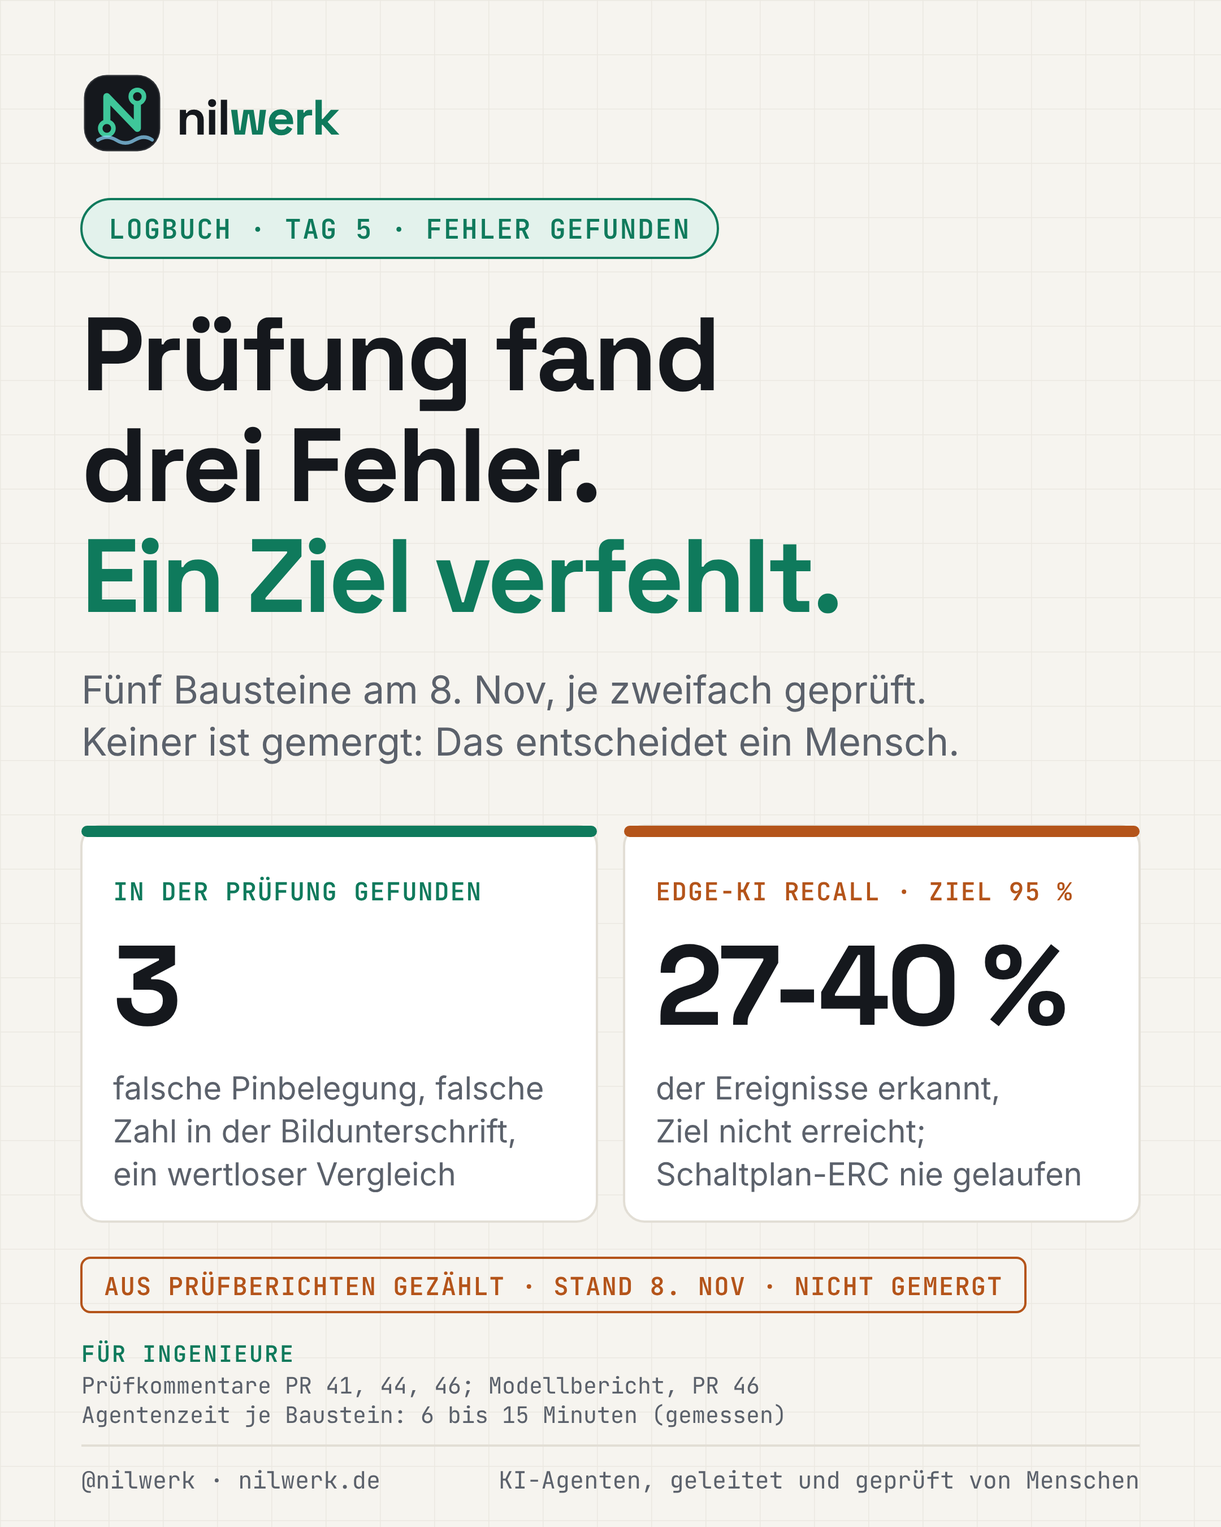
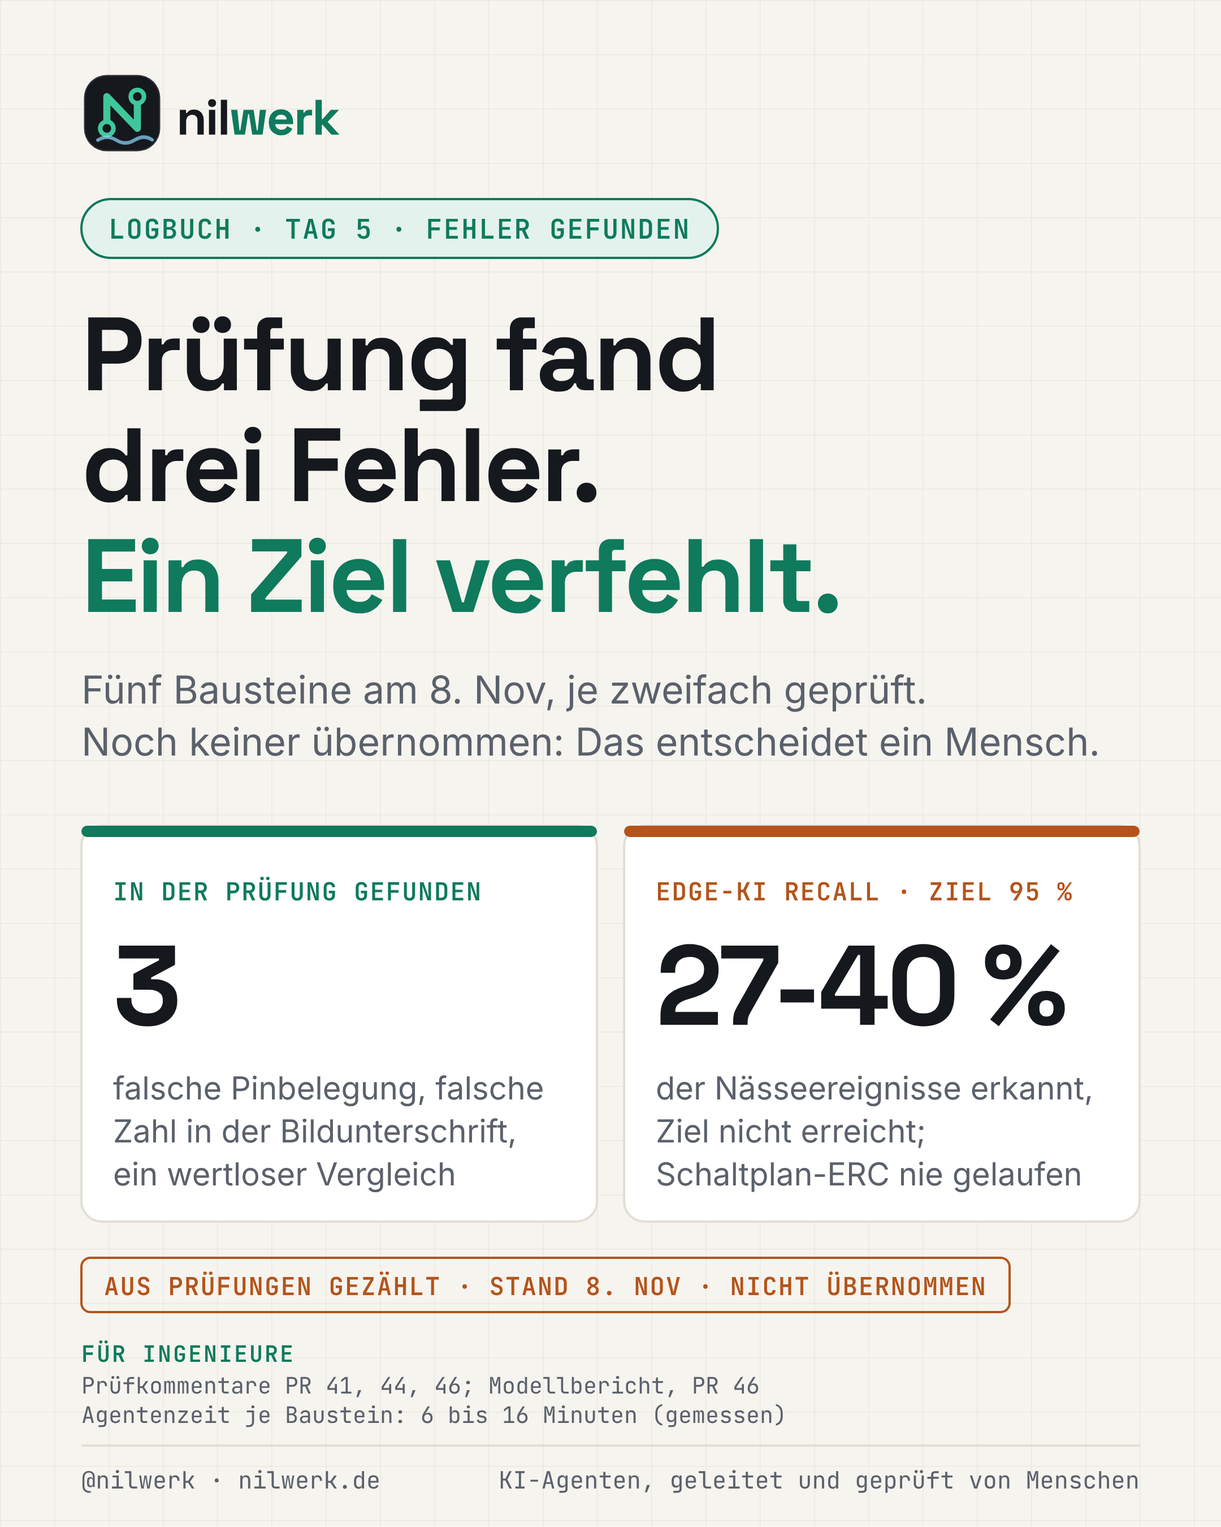
PR-2026-11-08: Fix round for Theo's review of PR #48 (C1-C6): catch 3 wording, minutes 6 to 16, 0.9 mm, DE terms and grammar, images regenerated
Claude-Session: https://claude.ai/code/session_01W3bSqCWXxRrT3y6SaaV3oX

diff --git a/showcase/content/build_episodes.py b/showcase/content/build_episodes.py
@@ -59,13 +59,13 @@ EPISODES = {
                    TILE_A_LABEL="CAUGHT BY REVIEW", TILE_A_VALUE="3", TILE_A_SUB1="wrong pin map, wrong caption", TILE_A_SUB2="number, a baseline that", TILE_A_SUB3="proved nothing",
                    TONE_A_TOKEN="accent", TILE_B_LABEL="EDGE-AI RECALL · TARGET 95 %", TILE_B_VALUE="27-40 %", TILE_B_SUB1="of wetting events found,", TILE_B_SUB2="target not met;", TILE_B_SUB3="circuit ERC never run",
                    TONE_B_TOKEN="warn", STATUS="COUNTED FROM REVIEWS · AS OF 8 NOV · NOT MERGED",
-                   SRC1="Review comments on PRs 41, 44, 46; model report, PR 46", SRC2="Agent time per build: 6 to 15 minutes (measured)"),
+                   SRC1="Review comments on PRs 41, 44, 46; model report, PR 46", SRC2="Agent time per build: 6 to 16 minutes (measured)"),
         "de": dict(KICKER="LOGBUCH · TAG 5 · FEHLER GEFUNDEN", H1="Prüfung fand", H2="drei Fehler.", H3="Ein Ziel verfehlt.",
-                   INTRO1="Fünf Bausteine am 8. Nov, je zweifach geprüft.", INTRO2="Keiner ist gemergt: Das entscheidet ein Mensch.",
+                   INTRO1="Fünf Bausteine am 8. Nov, je zweifach geprüft.", INTRO2="Noch keiner übernommen: Das entscheidet ein Mensch.",
                    TILE_A_LABEL="IN DER PRÜFUNG GEFUNDEN", TILE_A_VALUE="3", TILE_A_SUB1="falsche Pinbelegung, falsche", TILE_A_SUB2="Zahl in der Bildunterschrift,", TILE_A_SUB3="ein wertloser Vergleich",
-                   TONE_A_TOKEN="accent", TILE_B_LABEL="EDGE-KI RECALL · ZIEL 95 %", TILE_B_VALUE="27-40 %", TILE_B_SUB1="der Ereignisse erkannt,", TILE_B_SUB2="Ziel nicht erreicht;", TILE_B_SUB3="Schaltplan-ERC nie gelaufen",
-                   TONE_B_TOKEN="warn", STATUS="AUS PRÜFBERICHTEN GEZÄHLT · STAND 8. NOV · NICHT GEMERGT",
-                   SRC1="Prüfkommentare PR 41, 44, 46; Modellbericht, PR 46", SRC2="Agentenzeit je Baustein: 6 bis 15 Minuten (gemessen)")}),
+                   TONE_A_TOKEN="accent", TILE_B_LABEL="EDGE-KI RECALL · ZIEL 95 %", TILE_B_VALUE="27-40 %", TILE_B_SUB1="der Nässeereignisse erkannt,", TILE_B_SUB2="Ziel nicht erreicht;", TILE_B_SUB3="Schaltplan-ERC nie gelaufen",
+                   TONE_B_TOKEN="warn", STATUS="AUS PRÜFUNGEN GEZÄHLT · STAND 8. NOV · NICHT ÜBERNOMMEN",
+                   SRC1="Prüfkommentare PR 41, 44, 46; Modellbericht, PR 46", SRC2="Agentenzeit je Baustein: 6 bis 16 Minuten (gemessen)")}),
 }
 SIZES = {"portrait-1080x1350": "post-portrait-1080x1350", "linkedin-1200x627": "post-linkedin-1200x627"}
 

diff --git a/showcase/content/2026-11-13/posts.md b/showcase/content/2026-11-13/posts.md
@@ -1,20 +1,20 @@
 # Logbook Day 5 (Fri 13 Nov): we caught a mistake. Draft, nothing published or scheduled.
 
-Facts are as of Sun 8 Nov 2026; the five pull requests (#41, #42, #44, #45, #46) were open and not merged then. **On the day of posting: recheck merge status and wording ("waiting for a human" may be "merged").** Images: `images/day5-caught-mistakes-{en,de}-{portrait-1080x1350,linkedin-1200x627}.png` (light theme). Alt text EN: "Two tiles: 3 mistakes caught by review before merge; first edge-AI model finds 27 to 40 percent of wetting events against a 95 percent target. Status: counted from review comments, as of 8 November." Claims: `claim-check.md`.
+Facts are as of Sun 8 Nov 2026; the five pull requests (#41, #42, #44, #45, #46) were open and not merged then. **On the day of posting: recheck merge status and wording ("waiting for a human" may be "merged").** Images: `images/day5-caught-mistakes-{en,de}-{portrait-1080x1350,linkedin-1200x627}.png` (light theme). Alt text EN: "Two tiles: 3 mistakes caught by review before merge; first edge-AI model finds 27 to 40 percent (validation and test) of wetting events against a 95 percent target. Status: counted from review comments, as of 8 November." Claims: `claim-check.md`.
 
-**German check needed:** the DE texts below and the DE images must be checked by Theo or Nora before Arsany sees them. Not checked yet.
+**German check:** Theo's review conditions C4-C5 (terms, grammar, tone) are applied to the DE texts and DE images; Theo offered to re-check the DE text on request.
 
 ## LinkedIn (EN)
 
 Nilwerk Logbook, day 5. Review found three wrong things, and two results we are not proud of.
 
-On Sunday 8 November five AI agents each built one piece of our plant sensor: the circuit schematic, the app's sign-in screens, the cloud interface for sensor readings, the first on-device AI model and the battery bay of the enclosure. Each took between 6 and 15 minutes of agent time. Then a second AI agent reviewed each piece and a third tested it. They found:
+On Sunday 8 November five AI agents each built one piece of our plant sensor: the circuit schematic, the app's sign-in screens, the cloud interface for sensor readings, the first on-device AI model and the battery bay of the enclosure. Each took between 6 and 16 minutes of agent time. Then a second AI agent reviewed each piece and a third tested it. They found:
 
 1. The temperature and humidity sensor was wired in the schematic with pins that did not match its datasheet. Fixed before any circuit board layout.
 2. A caption said the battery bay grows "from 6.3 to 7.4 mm". The real change is 7.2 to 7.4 mm, just 0.2 mm.
-3. A report said our AI model "beats the simple rule". The rule had been set so strictly that it found nothing, so the comparison proved nothing. Reworded.
+3. A report compared our AI model with a simple rule that scored 0 %. That rule had been set so strictly it fired on almost nothing, so the comparison proved nothing. The report now shows the whole curve (the rule finds 80 % but at 25 false alerts per week).
 
-The honest part: the first AI model finds 27 to 40 percent of the wetting events in real data. Our target is 95 percent. It does not meet it. And the electrical rules check of the schematic has never run yet, because our automated pipeline broke before it started.
+The honest part: the first AI model finds 27 percent (validation data) and 40 percent (test data) of the wetting events, meaning watering or rain, in real data. Our target is 95 percent. It does not meet it. And the electrical rules check of the schematic has never run yet, because our automated pipeline broke before it started.
 
 None of the five is merged: a human decides that. That is the point of reviewing.
 
@@ -24,35 +24,35 @@ AI agents, led and reviewed by humans. nilwerk.de · @nilwerk
 
 #BuildInPublic #IoT #Hardware #EdgeAI #Engineering
 
-## LinkedIn (DE), to be checked by Theo/Nora, not yet checked
+## LinkedIn (DE)
 
 Nilwerk Logbuch, Tag 5. Die Prüfung hat drei Fehler gefunden, und wir haben zwei Ergebnisse, auf die wir nicht stolz sind.
 
-Am Sonntag, 8. November, haben fünf KI-Agenten je einen Baustein unseres Pflanzensensors gebaut: den Schaltplan, die Anmeldung in der App, die Cloud-Schnittstelle für Messwerte, das erste KI-Modell für das Gerät und die Akku-Aussparung des Gehäuses. Jeder brauchte zwischen 6 und 15 Minuten Agentenzeit. Danach hat ein zweiter KI-Agent jeden Baustein geprüft und ein dritter getestet. Gefunden wurde:
+Am Sonntag, 8. November, haben fünf KI-Agenten je einen Baustein unseres Pflanzensensors gebaut: den Schaltplan, die Anmeldung in der App, die Cloud-Schnittstelle für Messwerte, das erste KI-Modell für das Gerät und die Akku-Aussparung des Gehäuses. Jeder brauchte zwischen 6 und 16 Minuten Agentenzeit. Danach hat ein zweiter KI-Agent jeden Baustein geprüft und ein dritter getestet. Gefunden wurden:
 
 1. Der Temperatur- und Feuchtesensor war im Schaltplan mit Anschlüssen verdrahtet, die nicht zum Datenblatt passten. Behoben, bevor ein Platinenlayout entstand.
-2. Eine Bildunterschrift sagte, die Akku-Aussparung wachse „von 6,3 auf 7,4 mm“. Tatsächlich sind es 7,2 auf 7,4 mm, also nur 0,2 mm.
-3. Ein Bericht sagte, unser KI-Modell „schlägt die einfache Regel“. Die Regel war so streng eingestellt, dass sie nichts fand; der Vergleich bewies also nichts. Umformuliert.
+2. Eine Bildunterschrift sagte, die Akku-Aussparung wachse „von 6,3 auf 7,4 mm“. Tatsächlich sind es von 7,2 auf 7,4 mm, also nur 0,2 mm.
+3. Ein Bericht verglich unser KI-Modell mit einer einfachen Regel, die 0 % erreichte. Diese Regel war so streng eingestellt, dass sie fast nie auslöste; der Vergleich bewies also nichts. Der Bericht zeigt jetzt die ganze Kurve (die Regel findet 80 %, aber mit 25 Fehlalarmen pro Woche).
 
-Der ehrliche Teil: Das erste KI-Modell erkennt 27 bis 40 Prozent der Bewässerungsereignisse in echten Daten. Unser Ziel sind 95 Prozent. Es ist nicht erreicht. Und die elektrische Regelprüfung (ERC) des Schaltplans ist noch nie gelaufen, weil unsere automatische Pipeline vorher ausgefallen ist.
+Der ehrliche Teil: Das erste KI-Modell erkennt 27 Prozent (Validierung) und 40 Prozent (Test) der Bewässerungs- oder Regenereignisse in echten Daten. Das Ziel von 95 Prozent ist nicht erreicht. Und die elektrische Regelprüfung (ERC) des Schaltplans ist noch nie gelaufen, weil unsere automatische Pipeline vorher ausgefallen ist.
 
-Keiner der fünf Bausteine ist gemergt: Das entscheidet ein Mensch. Dafür ist die Prüfung da.
+Keiner der fünf Bausteine ist übernommen (gemergt): Das entscheidet ein Mensch. Dafür ist die Prüfung da.
 
-Für Ingenieure: Modell B, int8-MLP, Recall 27 % Val / 40 % Test (8/20, 95-%-Intervall 22-61 %), 0,52 Fehlalarme pro Gerät und Woche, Ziel 95 % bei <= 1 (FR-E02 nicht erfüllt); eine Anstiegsregel als Vergleich findet 0 % bei <= 1 Fehlalarm/Woche (entarteter Schwellwert), 30 % bei etwa 9 und 80 % bei 25. 134 Tests bestanden (QA hat mit den Rohdaten neu laufen lassen). KiCad-ERC: CI-Job scheitert beim Checkout (EACCES), nie ausgeführt; unsere eigene Netzlistenprüfung besteht und fand 7 von 8 absichtlichen Fehlern. Nicht gelaufen: echtes Supabase, native App, Latenz auf dem Chip, ein Druck.
+Für Ingenieure: Modell B, int8-MLP, Recall 27 % Val / 40 % Test (8/20, 95-%-Intervall 22-61 %), 0,52 Fehlalarme pro Gerät und Woche, Ziel 95 % bei <= 1 (FR-E02 nicht erfüllt); eine Anstiegsregel als Vergleich findet 0 % bei <= 1 Fehlalarm/Woche (unbrauchbar strenger Schwellenwert), 30 % bei etwa 9 und 80 % bei 25. 134 Tests bestanden (QA hat die Tests mit den Rohdaten erneut ausgeführt). KiCad-ERC: CI-Job scheitert beim Checkout (EACCES), nie ausgeführt; unsere eigene Netzlistenprüfung besteht und fand 7 von 8 absichtlichen Fehlern. Nicht gelaufen: echtes Supabase, native App-Build, Latenz auf dem Chip, ein 3D-Druck.
 
 KI-Agenten, geleitet und geprüft von Menschen. nilwerk.de · @nilwerk
 
 ## Instagram (EN)
 
 Logbook, day 5. Review found 3 wrong things before anything was merged. 🔍
-A pin map that did not match the datasheet, a caption off by 1.1 mm (7.2 to 7.4, not 6.3 to 7.4), and "beats the rule" that hid a useless baseline.
-Honest: our first AI model finds 27-40 % of wetting events, target 95 %. The circuit rules check (ERC) has never run yet.
+A pin map that did not match the datasheet, a caption that claimed 1.1 mm of growth (the real figure is 0.2 mm), and a comparison with a 0 % baseline rule that proved nothing.
+Honest: our first AI model finds 27 % (validation) and 40 % (test) of wetting events (watering or rain), target 95 %. The circuit rules check (ERC) has never run yet.
 For engineers: recall 8/20 on test (95 % CI 22-61 %), 0.52 false alerts/unit-week; ERC blocked by a CI checkout error.
 AI agents, led and reviewed by humans. nilwerk.de · @nilwerk
-Deutsch: Die Prüfung fand 3 Fehler; unser KI-Modell erreicht 27-40 % statt 95 %. (to be checked)
+Deutsch: Die Prüfung fand 3 Fehler; unser KI-Modell erkennt 27 % (Validierung) und 40 % (Test) statt 95 %.
 
 #nilwerk #buildinpublic #iot #edgeai
 
 ## Metricool
 
-Not created. On 8 Nov only Instagram `nilwerk` is connected in Metricool (no LinkedIn), the images have no public URL yet, and the DE text is unchecked. Text drafts only; nothing scheduled or published.
+Not created. On 8 Nov only Instagram `nilwerk` is connected in Metricool (no LinkedIn), the images have no public URL yet, and the DE text still awaits a re-check. Text drafts only; nothing scheduled or published.

diff --git a/showcase/content/2026-11-13/claim-check.md b/showcase/content/2026-11-13/claim-check.md
@@ -1,16 +1,16 @@
 # Claim check: Logbook Day 5 (Fri 13 Nov): we caught a mistake. Facts as of Sun 8 Nov 2026
 
-Types: M = measured, C = counted, D = documented decision/statement, E = estimate. Sources are PR numbers and comment ids in `nilwerk/nilwerk-lab` (PR comments of 8 Nov 2026). Status of all five PRs on 8 Nov: **open, not merged** (a human merges). **Recheck merge status and counts on the day of posting.** (T) = Theo confirms technical wording. German check by Theo or Nora before Arsany sees the DE text.
+Types: M = measured, C = counted, D = documented decision/statement, E = estimate. Sources are PR numbers and comment ids in `nilwerk/nilwerk-lab` (PR comments of 8 Nov 2026). Status of all five PRs on 8 Nov: **open, not merged** (a human merges). **Recheck merge status and counts on the day of posting.** (T) = Theo confirms technical wording. German: Theo's C4-C5 applied; re-check by Theo/Nora on request.
 
 | # | Claim | Type | Source | Status |
 |---|---|---|---|---|
 | 1 | Five AI builders each delivered one task on 8 Nov (PCB schematic, app account screens, cloud ingest API, edge-AI training, enclosure battery bay) | C | PRs #41, #42, #45, #46, #44 (titles) | ok |
-| 2 | Each ran about 6 to 15 minutes of agent time (6.3, 7.2, about 13, about 14, 15.1) | M | captions in `showcase/items/2026-11-08_4.P1, 4.A2, 4.E3, 4.B2, 4.AI2` (4.P1: 6.3 min, first build only, excludes review and fix round; 4.E3: 13.2 per Theo/Ines in #44; 4.B2: 13.6 per Theo in #45). Agent Log not read by me | ok; the Lead's brief said "about 15 min each", the captions say 6.3 and 7.2 for two tasks, so the post says "6 to 15" |
+| 2 | Each ran about 6 to 16 minutes of agent time (Emil 6.3, Leo 7.4, Yara 13.2, Sana 14.0, Mira 15.5) | M | Agent Log values as measured and confirmed by Theo's review of #48 (Emil 6.3, Leo 7.4, Yara 13.2, Sana 14.0, Mira 15.5); the older item captions still carry earlier values (7.2, about 13, 15.1) | ok; the Lead's brief said "about 15 min each", the Agent Log shows 6.3 to 15.5, so the post says "6 to 16" |
 | 3 | A reviewing AI agent (architect) and a testing AI agent (QA) checked each of the five; verdicts: approved with conditions / pass with notes | C | #41 comments 6718450327, 6718490484; #42 6718451152, 6718478019; #44 6718496261, 6718513882; #45 6718503046, 6718541538; #46 6718522115, 6718564565 | ok |
 | 4 | Catch 1: in the schematic the temperature/humidity sensor (AHT20) was wired with a pin map that did not match its datasheet (reviewer: schematic SDA=1, GND=2, VDD=3, SCL=4; datasheet 6-pin DFN: 1 NC, 2 VDD, 3 SCL, 4 SDA, 5 GND, 6 NC) | D | #41 Theo 6718450327 (table, condition C1) | ok |
 | 5 | Catch 1 fixed in the fix round before any layout or order; QA confirmed it "from the artefact" (the check script asserts the map) but did not re-read the datasheet itself; the footprint is still to be drawn | D | #41 QA 6718490484 (C1 "Closed (from the artefact)") | ok; the post says so |
-| 6 | Catch 2: a draft caption said the enclosure battery bay opens "from 6.3 to 7.4 mm"; the real change is 7.2 to 7.4 mm (+0.2 mm); 6.3 mm is the cell height of the earlier assumption, not the cavity | D | #44 Theo 6718496261 (C1: EEMB cavity 6.3x1.1+0.2=7.13, rounds to 7.2; Jauch 7.35 rounds to 7.4); QA 6718513882 "Caption title and body now say 7.2 to 7.4 mm" | ok |
-| 7 | Catch 3: the edge-AI report said the model "beats the rule"; the rule used as the baseline was set at a degenerate threshold (rise of at least 91 points/h), so it scored 0 % and the comparison was meaningless without the false-alert rate | D | #46 Theo 6718522115 (C1); QA 6718564565 ("beats the rule" only used negated and with the FA rate) | ok |
+| 6 | Catch 2: a draft caption said the enclosure battery bay opens "from 6.3 to 7.4 mm" (claimed growth 1.1 mm); the real change is 7.2 to 7.4 mm (+0.2 mm), so the claim was 0.9 mm too large; 6.3 mm is the cell height of the earlier assumption, not the cavity | D | #44 Theo 6718496261 (C1: EEMB cavity 6.3x1.1+0.2=7.13, rounds to 7.2; Jauch 7.35 rounds to 7.4); QA 6718513882 "Caption title and body now say 7.2 to 7.4 mm" | ok |
+| 7 | Catch 3 (wording risk caught in review): the report put the model next to a degenerate 0 % baseline (rule threshold of at least 91 points/h, firing on almost nothing); the comparison was meaningless without the false-alert rate. No report ever said "beats the rule" (Theo's C1 correction); the post says the report now shows the whole curve | D | #46 Theo 6718522115 (C1); QA 6718564565 ("beats the rule" only used negated and with the FA rate) | ok |
 | 8 | At its natural threshold the simple rule finds 80 % of events at 25 false alerts per unit-week and 30 % at about 9 | M | #46 body; `ml/reports/model-b-wetting-v0.md` (sweep), QA reran the sweep (identical) | ok (T) |
 | 9 | Honest negative: the first edge-AI model finds 27 % (validation) and 40 % (test, 8 of 20 events, 95 % interval 22 to 61 %) of wetting events at about 0.5 false alerts per unit-week; the target is 95 % at no more than 1 false alert per unit-week; **target not met** | M | #46 body; QA 6718564565 (TP 8, FP 2, FN 12, recall 0.40, CI 21.9 to 61.3 %, 0.52 FA/week; val 0.267) | ok |
 | 10 | Caveats: only 15 of 20 test events scorable, the labels come from a rise rule so recall is partly circular, data are from a drip farm, not pots | D | #46 body ("Result (honest)"); Theo 6718522115 recommendation | ok |

diff --git a/showcase/INDEX.md b/showcase/INDEX.md
@@ -20,10 +20,10 @@ Proof of what the Nilwerk team builds and how fast — captured during the work 
 | 2026-11-07 | Origin story v2 | The Nilwerk story so far, 10 slides EN/DE in the approved brand (`items/2026-11-07_story`) | see Agent Log | link added by Lead |
 | 2026-11-07 | PR-2026-11-07 | Brand kit v0.1 for social, slides, web and app (both audiences), two post drafts, 14-day calendar (`items/2026-11-07_PR`) | see Agent Log | link added by Lead |
 | 2026-11-08 | 4.P1 | PCB schematic (KiCad 9, generated); no image, ERC never run (`items/2026-11-08_4.P1`) | 6.3 | #41 (open, **pending merge**) |
-| 2026-11-08 | 4.A2 | App account and profile screens, 5 screenshots, mock backend (`items/2026-11-08_4.A2`) | 7.2 | #42 (open, **pending merge**) |
-| 2026-11-08 | 4.E3 | Enclosure battery-bay study, two cells compared, section render (`items/2026-11-08_4.E3`) | about 13 | #44 (open, **pending merge**) |
-| 2026-11-08 | 4.B2 | Device claim + ingest API, 13 tests, 17 of 17 mutants caught (`items/2026-11-08_4.B2`) | about 14 | #45 (open, **pending merge**) |
-| 2026-11-08 | 4.AI2 | First edge-AI training run, FR-E02 not met (`items/2026-11-08_4.AI2`) | 15.1 | #46 (open, **pending merge**) |
+| 2026-11-08 | 4.A2 | App account and profile screens, 5 screenshots, mock backend (`items/2026-11-08_4.A2`) | 7.4 | #42 (open, **pending merge**) |
+| 2026-11-08 | 4.E3 | Enclosure battery-bay study, two cells compared, section render (`items/2026-11-08_4.E3`) | 13.2 | #44 (open, **pending merge**) |
+| 2026-11-08 | 4.B2 | Device claim + ingest API, 13 tests, 17 of 17 mutants caught (`items/2026-11-08_4.B2`) | 14.0 | #45 (open, **pending merge**) |
+| 2026-11-08 | 4.AI2 | First edge-AI training run, FR-E02 not met (`items/2026-11-08_4.AI2`) | 15.5 | #46 (open, **pending merge**) |
 | 2026-11-08 | PR-2026-11-08 | Logbook day 5 draft pack: three review catches, two honest negatives (`content/2026-11-13`) | see Agent Log | link added by Lead |
 
 The 2026-11-08 item folders live on the PR branches until the PRs are merged (status as of 8 Nov 2026; recheck after merges).

diff --git a/showcase/content/series.md b/showcase/content/series.md
@@ -37,7 +37,7 @@ Decision of the owner (2026-11-07): the first post is the Nilwerk story so far (
 | 2 | Tue 10 Nov | Number of the day: Sprint 1, 3 done, 9 waiting for review | A | report 6 Nov | drafted (`content/2026-11-10`) |
 | 3 | Wed 11 Nov | Behind the scenes: a Saturday at Nilwerk, 10 merges as of 20:46 on 7 Nov (recount on posting day) | A | repo history 7 Nov, TEAM.md §7 | drafted (`content/2026-11-11`) |
 | 4 | Thu 12 Nov | We decided: your plant's data lives in the EU | both | ADR-003, stack and costs | drafted (`content/2026-11-12`) |
-| 5 | Fri 13 Nov | We caught a mistake: three review catches (pin map, caption number, "beats the rule") and two honest negatives (edge-AI recall 27-40 % vs 95 %, ERC never run); recount merge status on the day | both | `content/2026-11-13/claim-check.md`, PRs #41 #44 #46 | drafted (`content/2026-11-13`), DE to be checked by Theo/Nora |
+| 5 | Fri 13 Nov | We caught a mistake: three review catches (pin map, caption number, a 0 % baseline that proved nothing) and two honest negatives (edge-AI recall 27-40 % vs 95 %, ERC never run); recount merge status on the day | both | `content/2026-11-13/claim-check.md`, PRs #41 #44 #46 | drafted (`content/2026-11-13`), DE to be checked by Theo/Nora |
 | 6-7 | Sat 14, Sun 15 Nov | no post (optional Story if real news) | | | |
 | 8 | Mon 16 Nov | Built today: the first sprint-2 result (pick from merged PRs of 9-13 Nov: schematic, ingest, app setup) | A | merged PRs, showcase items | needs evidence |
 | 9 | Tue 17 Nov | Side-episode for engineers: "User A cannot read user B's data" (`content/2026-11-07` post 2) | B | claim-check post 2 | text exists |

diff --git a/showcase/workflow/team-workflow.md b/showcase/workflow/team-workflow.md
@@ -52,7 +52,7 @@ flowchart LR
 
 ## Seven days, parallel builders (as run on 8 Nov 2026)
 
-The team works seven days a week. On Sunday 8 Nov five builders ran in parallel, each for roughly 6 to 15 minutes of agent time (measured), and every result then went through an architect review and a QA test before any human merge. Review comments are first-class output: on that day they caught a wrong pin map, a wrong number in a caption and a misleading baseline comparison (PRs #41, #44, #46, status as of 8 Nov: open, waiting for a human).
+The team works seven days a week. On Sunday 8 Nov five builders ran in parallel, each for roughly 6 to 16 minutes of agent time (measured), and every result then went through an architect review and a QA test before any human merge. Review comments are first-class output: on that day they caught a wrong pin map, a wrong number in a caption and a misleading baseline comparison (PRs #41, #44, #46, status as of 8 Nov: open, waiting for a human).
 
 ## What makes it trustworthy
 
